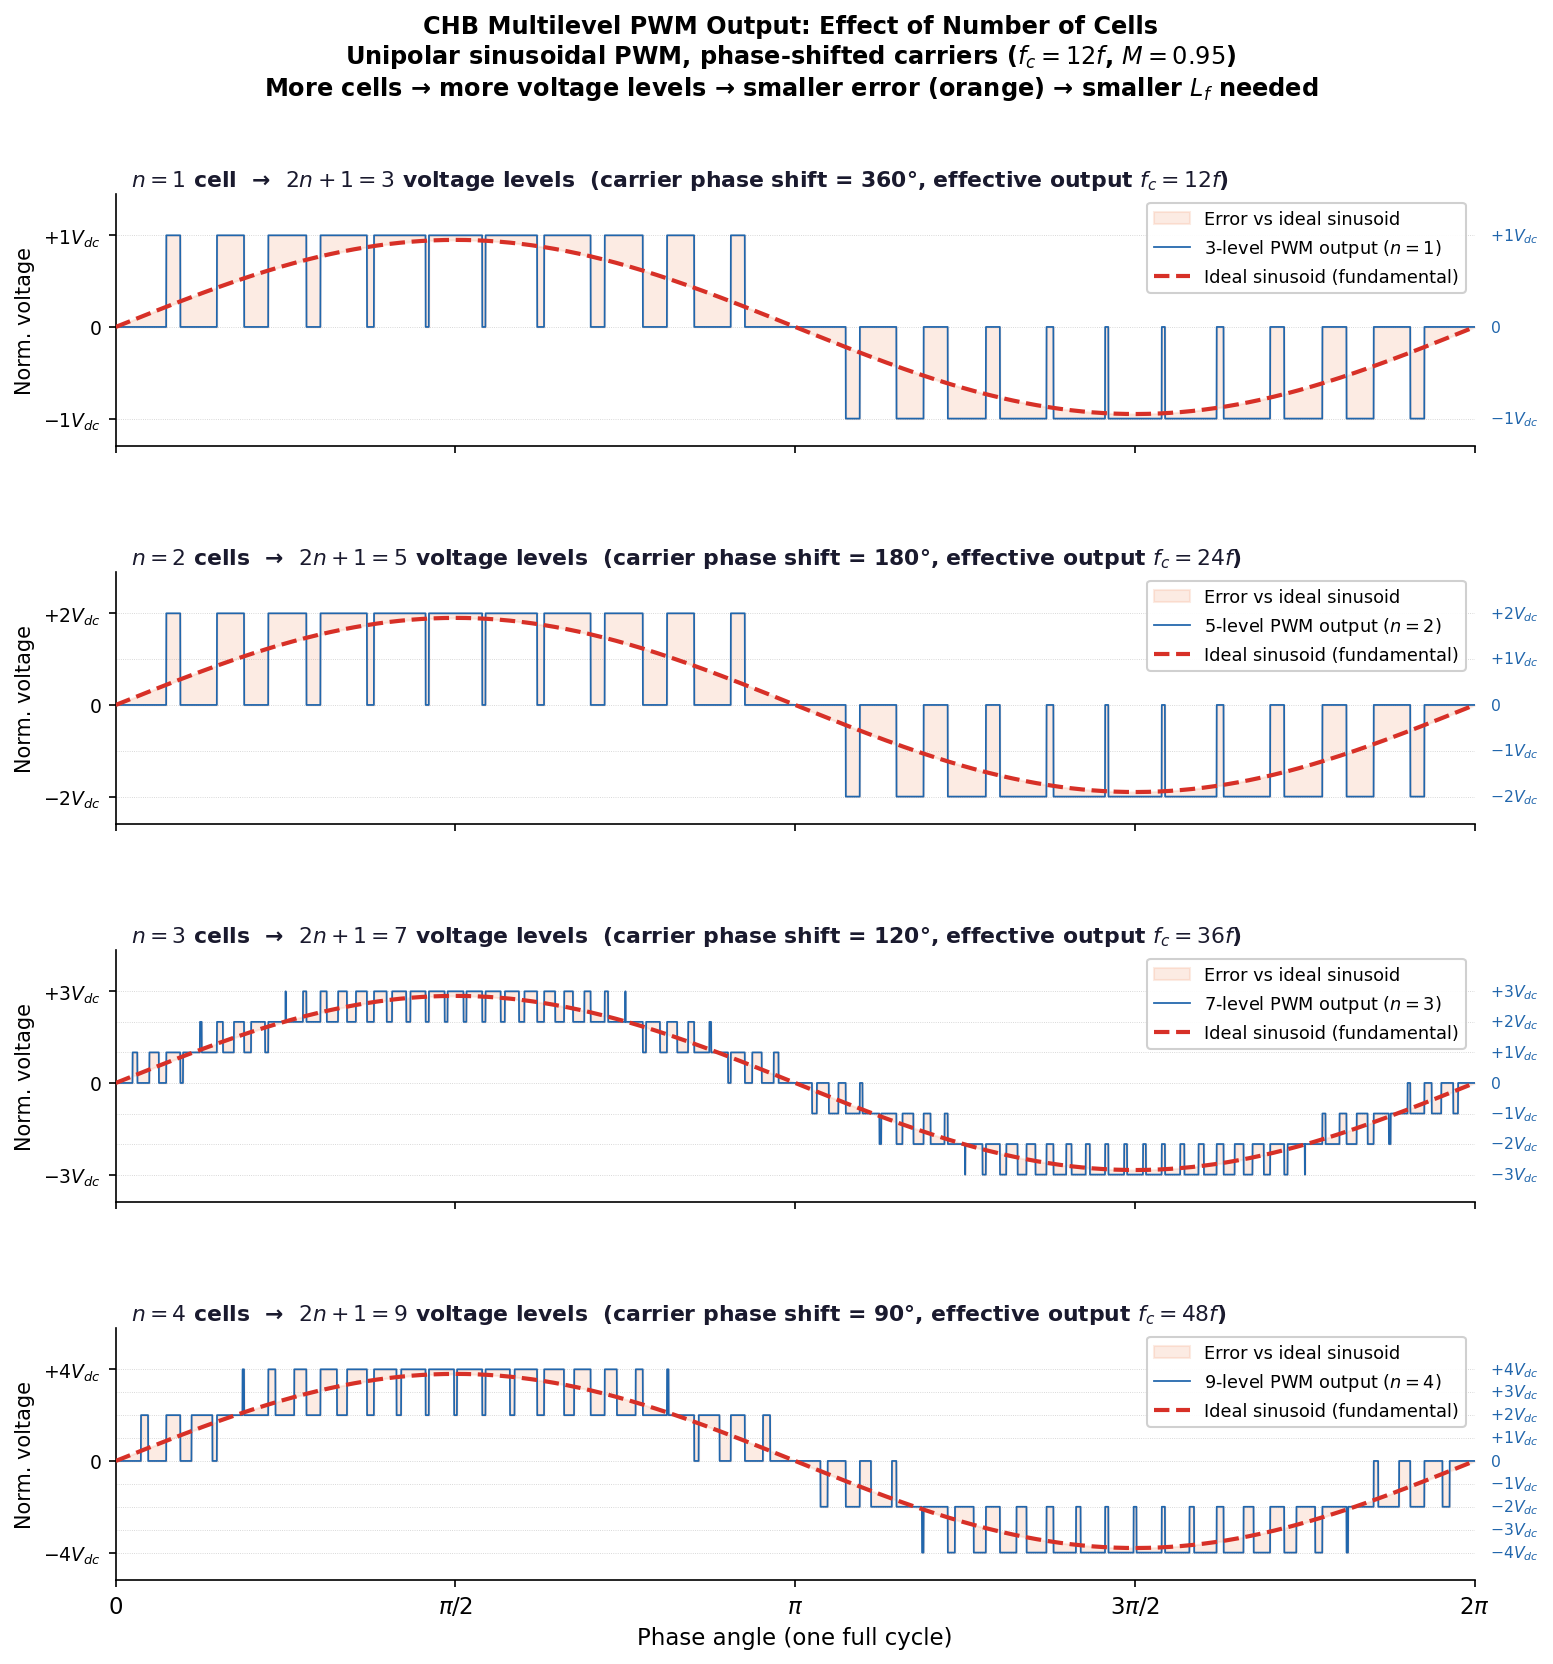
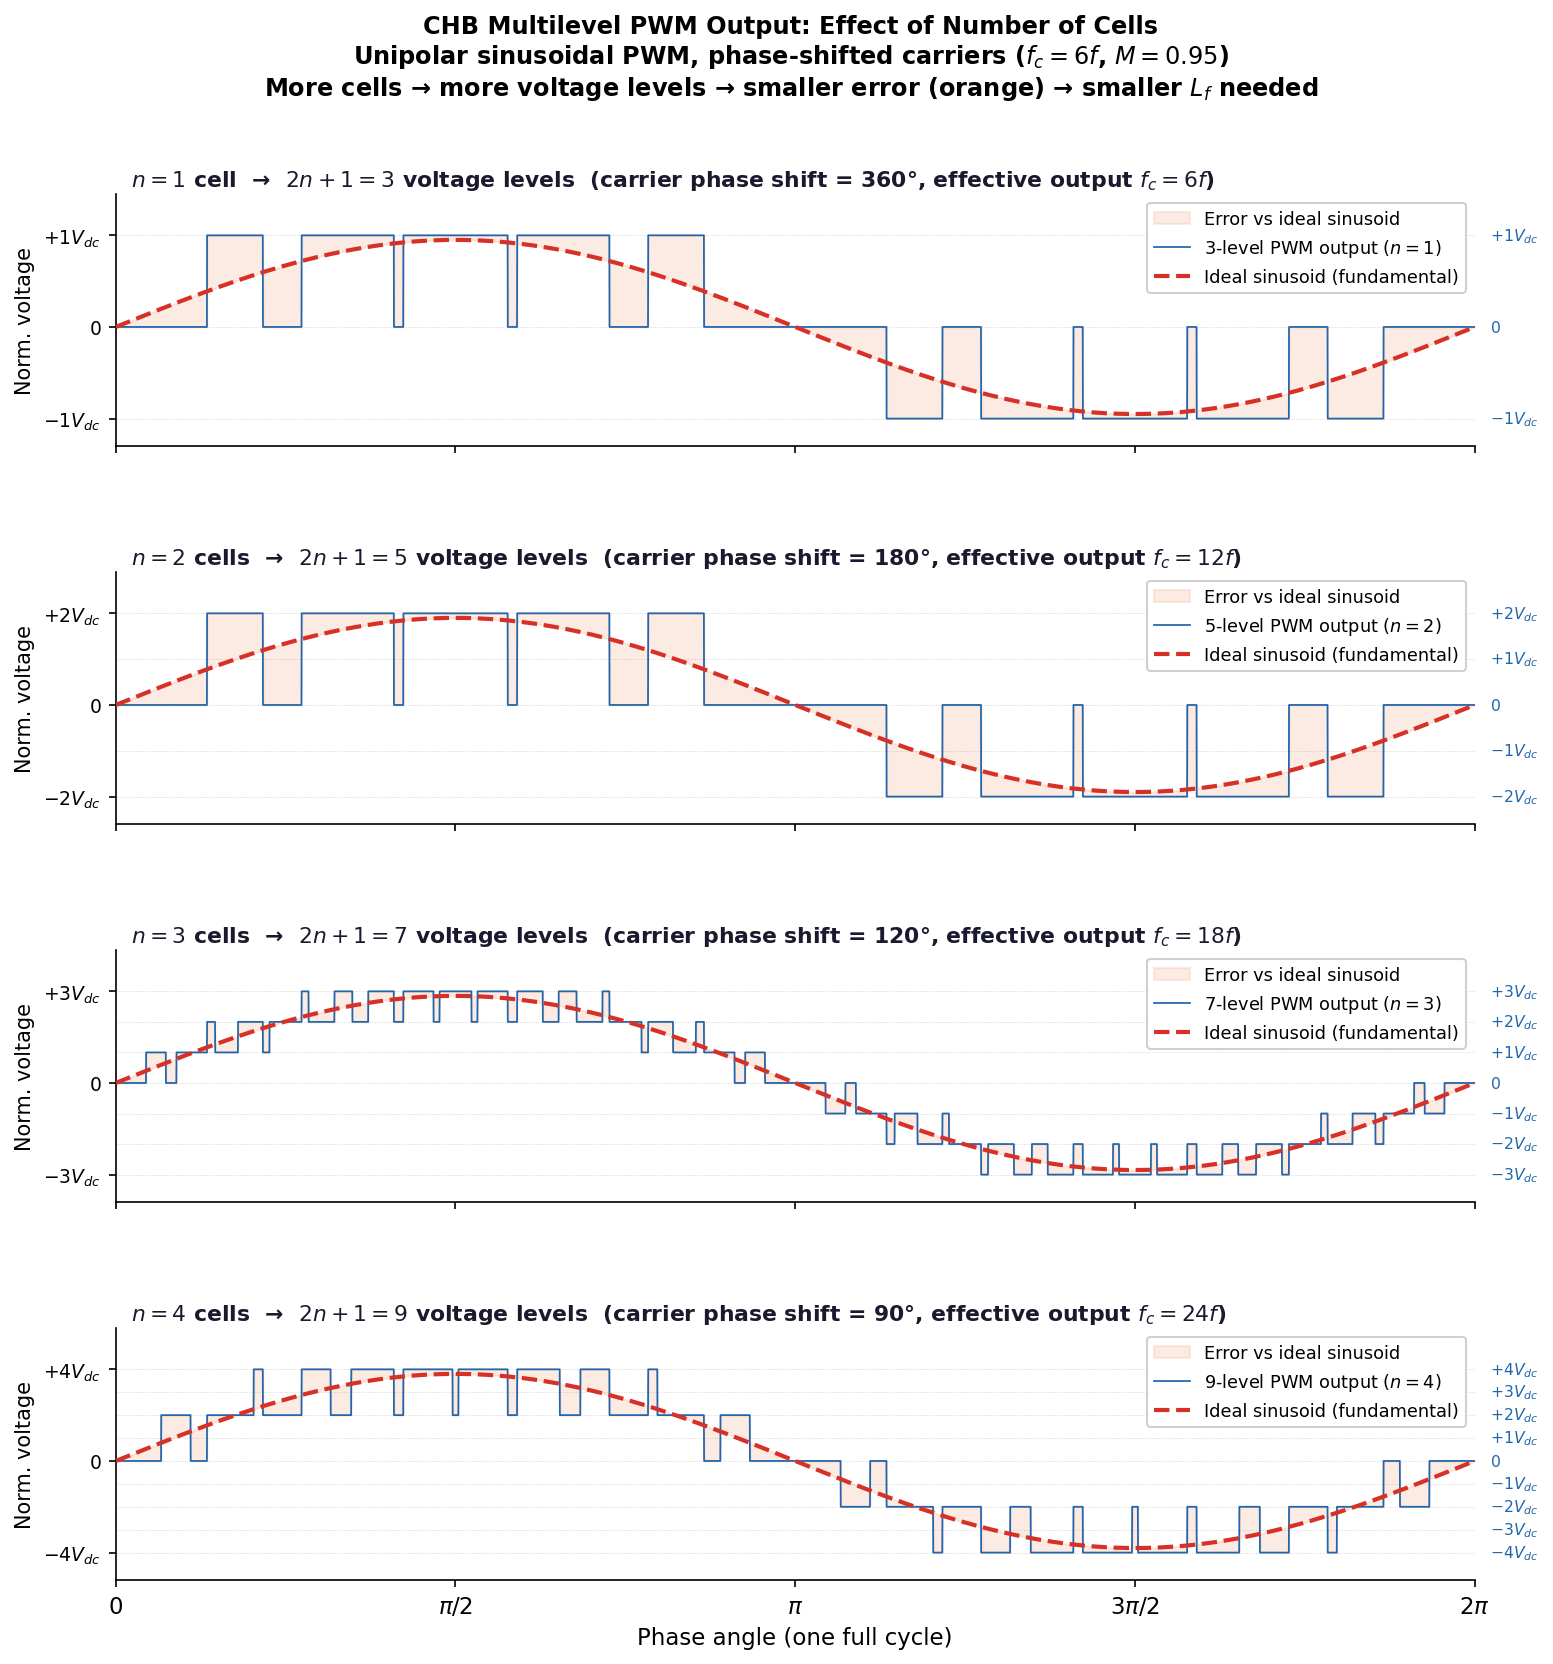
Lower fc_ratio 12→6 so PWM blocks are wide enough to show error clearly
At fc=12f the individual steps were too narrow at figure scale to see
the error-height difference between n=3 and n=4. With fc=6f per cell
each carrier block is 2x wider, making the progressive orange-area
reduction n=1→2→3→4 unmistakable. The buildup figure keeps fc=12f.

diff --git a/gen_staircase.py b/gen_staircase.py
@@ -1,17 +1,17 @@
 """
 CHB multilevel PWM summation figure — n = 1, 2, 3, 4 cells
-Unipolar sinusoidal PWM, phase-shifted carriers (360/n degrees apart), fc = 12f
-No THD label — visual error region (orange) tells the story unambiguously.
+Unipolar sinusoidal PWM, phase-shifted carriers (360/n degrees apart), fc = 6f
+fc = 6f chosen so each PWM block is wide enough to read the error height clearly.
 """
 import numpy as np
 import matplotlib
 matplotlib.use('Agg')
 import matplotlib.pyplot as plt
 
-FC_RATIO = 12
+FC_RATIO = 6
 M        = 0.95
 Vdc      = 1.0
-N        = 14400   # 1200 pts per carrier cycle
+N        = 7200    # 1200 pts per carrier cycle
 
 theta = np.linspace(0, 2 * np.pi, N, endpoint=False)
 t     = theta / (2 * np.pi)
@@ -81,7 +81,7 @@ axes[-1].set_xticklabels(
 
 fig.suptitle(
     'CHB Multilevel PWM Output: Effect of Number of Cells\n'
-    r'Unipolar sinusoidal PWM, phase-shifted carriers ($f_c = 12f$, $M = 0.95$)'
+    r'Unipolar sinusoidal PWM, phase-shifted carriers ($f_c = 6f$, $M = 0.95$)'
     '\nMore cells \u2192 more voltage levels \u2192 smaller error (orange) \u2192 smaller $L_f$ needed',
     fontsize=11.5, fontweight='bold')
 
